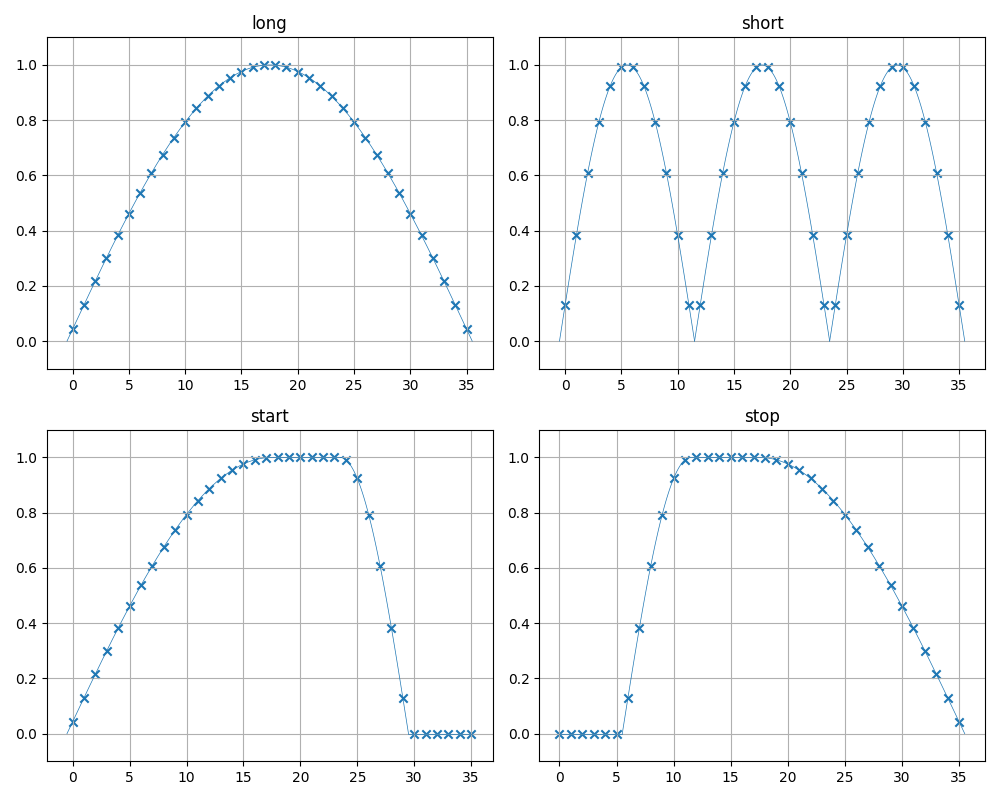
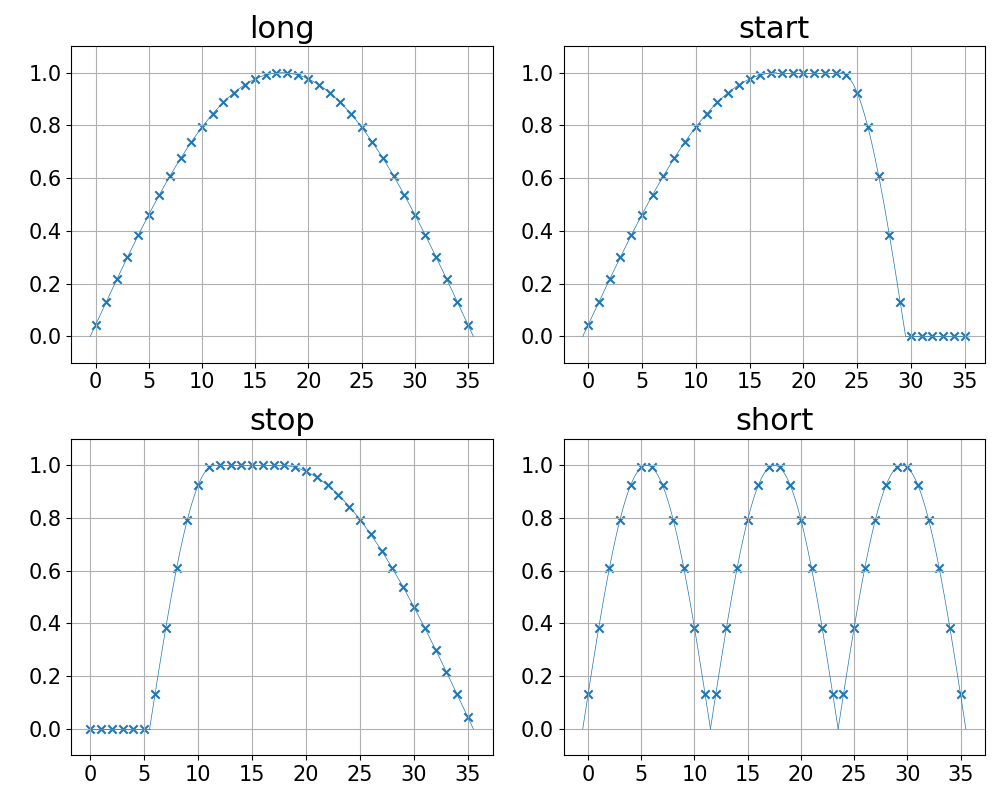
fix figure.

diff --git a/documents/slide/figs/mp3_routines.py b/documents/slide/figs/mp3_routines.py
@@ -542,31 +542,17 @@ def plot_window_functions():
     plt.cla()
     fig = plt.figure(figsize=(10, 8))
     ax = fig.add_subplot(2, 2, 1)
-    ax.set_title('long')
+    ax.set_title('long', fontsize=22)
     x = np.arange(0, 36)
     ax.scatter(x, np.sin(np.pi / 36 * (x + 1/2)), color=COLOR, marker='x')
     x = np.arange(-0.5, 35.6, 0.1)
     ax.plot(x, np.sin(np.pi / 36 * (x + 1/2)), color=COLOR, linewidth=0.5)
     ax.set_ylim(-0.1, 1.1)
+    ax.set_xticks(np.arange(0, 36, 5))
+    ax.tick_params(labelsize=15)
     ax.grid()
     ax = fig.add_subplot(2, 2, 2)
-    ax.set_title('short')
-    x = np.arange(0, 12)
-    ax.scatter(x, np.sin(np.pi / 12 * (x + 1/2)), color=COLOR, marker='x')
-    x = np.arange(-0.5, 11.6, 0.1)
-    ax.plot(x, np.sin(np.pi / 12 * (x + 1/2)), color=COLOR, linewidth=0.5)
-    x = np.arange(12, 24)
-    ax.scatter(x, np.sin(np.pi / 12 * (x - 12 + 1/2)), color=COLOR, marker='x')
-    x = np.arange(11.5, 23.59, 0.1)
-    ax.plot(x, np.sin(np.pi / 12 * (x - 12 + 1/2)), color=COLOR, linewidth=0.5)
-    x = np.arange(24, 36)
-    ax.scatter(x, np.sin(np.pi / 12 * (x - 24 + 1/2)), color=COLOR, marker='x')
-    x = np.arange(23.5, 35.59, 0.1)
-    ax.plot(x, np.sin(np.pi / 12 * (x - 24 + 1/2)), color=COLOR, linewidth=0.5)
-    ax.set_ylim(-0.1, 1.1)
-    ax.grid()
-    ax = fig.add_subplot(2, 2, 3)
-    ax.set_title('start')
+    ax.set_title('start', fontsize=22)
     x = np.arange(0, 18)
     ax.scatter(x, np.sin(np.pi / 36 * (x + 1/2)), color=COLOR, marker='x')
     x = np.arange(-0.5, 17.6, 0.1)
@@ -584,9 +570,11 @@ def plot_window_functions():
     x = np.arange(29.5, 35.1, 0.1)
     ax.plot(x, np.zeros_like(x), color=COLOR, linewidth=0.5)
     ax.set_ylim(-0.1, 1.1)
+    ax.set_xticks(np.arange(0, 36, 5))
+    ax.tick_params(labelsize=15)
     ax.grid()
-    ax = fig.add_subplot(2, 2, 4)
-    ax.set_title('stop')
+    ax = fig.add_subplot(2, 2, 3)
+    ax.set_title('stop', fontsize=22)
     x = np.arange(0, 6)
     ax.scatter(x, np.zeros_like(x), color=COLOR, marker='x')
     x = np.arange(0, 5.6, 0.1)
@@ -604,6 +592,26 @@ def plot_window_functions():
     x = np.arange(18, 35.6, 0.1)
     ax.plot(x, np.sin(np.pi / 36 * (x + 1/2)), color=COLOR, linewidth=0.5)
     ax.set_ylim(-0.1, 1.1)
+    ax.set_xticks(np.arange(0, 36, 5))
+    ax.tick_params(labelsize=15)
+    ax.grid()
+    ax = fig.add_subplot(2, 2, 4)
+    ax.set_title('short', fontsize=22)
+    x = np.arange(0, 12)
+    ax.scatter(x, np.sin(np.pi / 12 * (x + 1/2)), color=COLOR, marker='x')
+    x = np.arange(-0.5, 11.6, 0.1)
+    ax.plot(x, np.sin(np.pi / 12 * (x + 1/2)), color=COLOR, linewidth=0.5)
+    x = np.arange(12, 24)
+    ax.scatter(x, np.sin(np.pi / 12 * (x - 12 + 1/2)), color=COLOR, marker='x')
+    x = np.arange(11.5, 23.59, 0.1)
+    ax.plot(x, np.sin(np.pi / 12 * (x - 12 + 1/2)), color=COLOR, linewidth=0.5)
+    x = np.arange(24, 36)
+    ax.scatter(x, np.sin(np.pi / 12 * (x - 24 + 1/2)), color=COLOR, marker='x')
+    x = np.arange(23.5, 35.59, 0.1)
+    ax.plot(x, np.sin(np.pi / 12 * (x - 24 + 1/2)), color=COLOR, linewidth=0.5)
+    ax.set_ylim(-0.1, 1.1)
+    ax.set_xticks(np.arange(0, 36, 5))
+    ax.tick_params(labelsize=15)
     ax.grid()
 
     plt.tight_layout()
